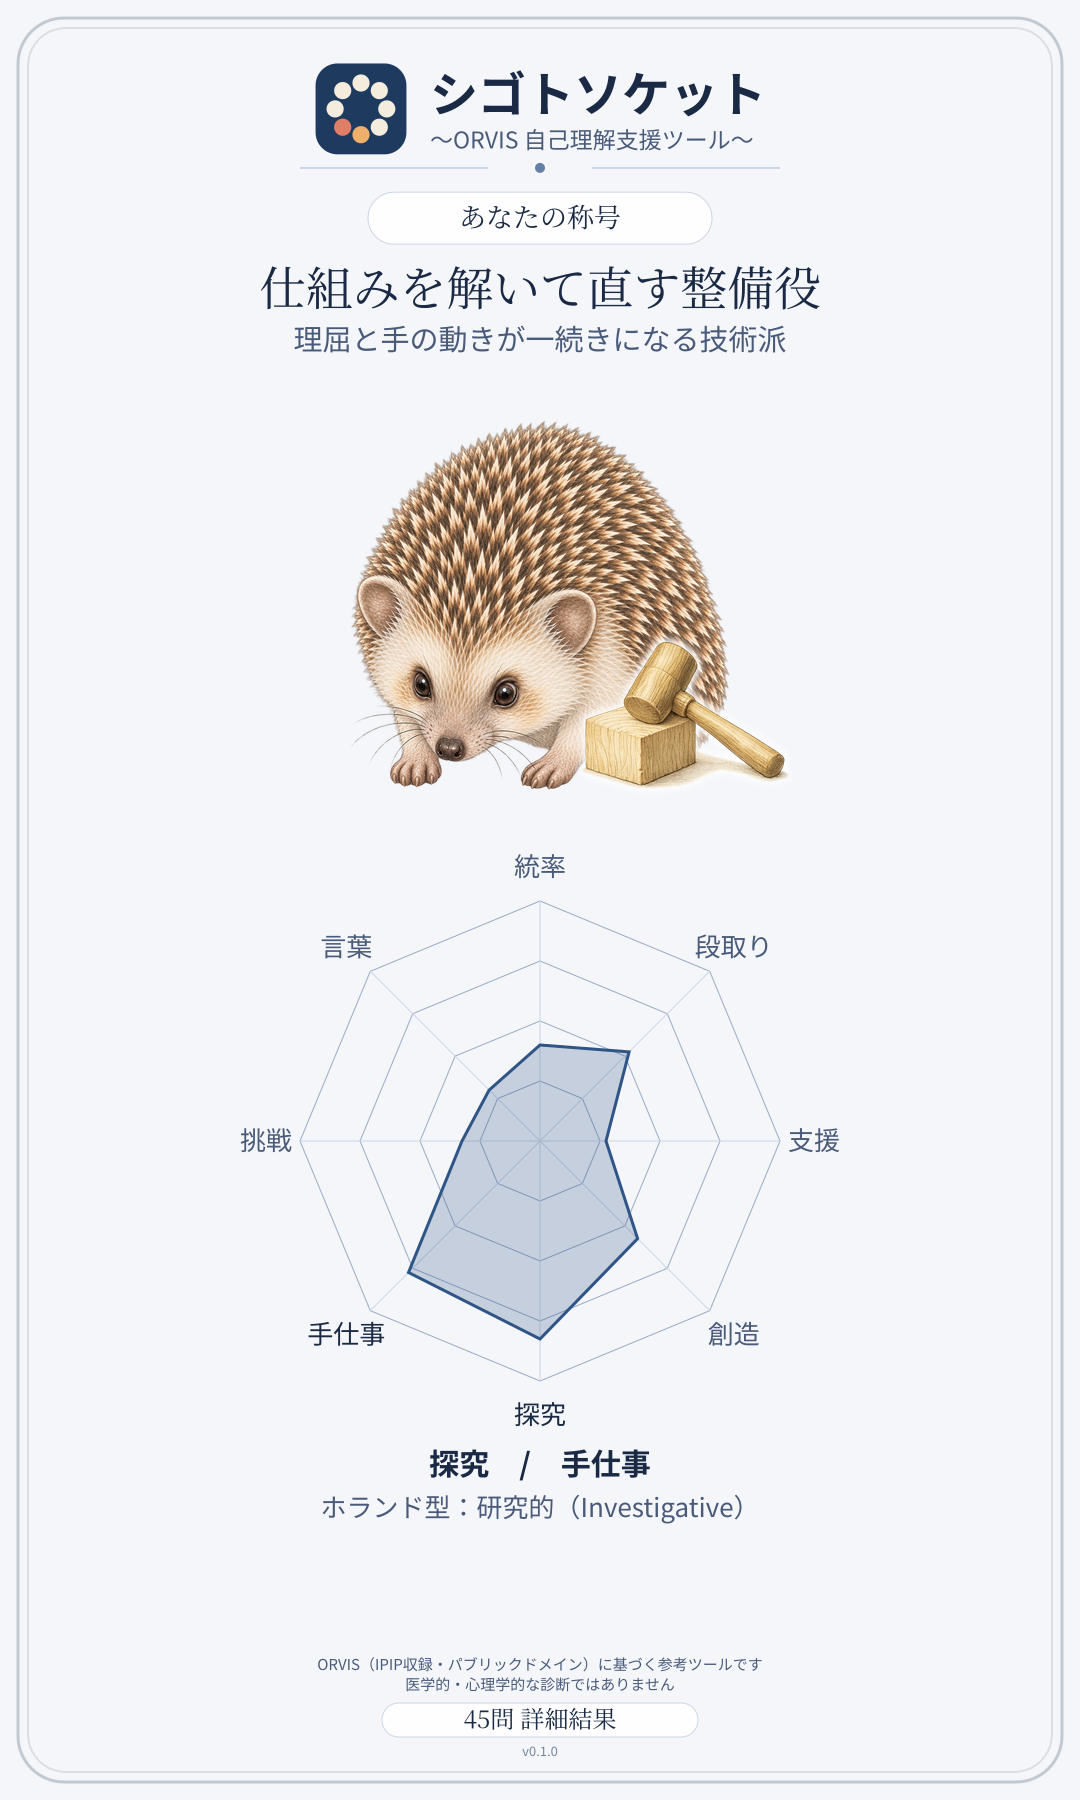
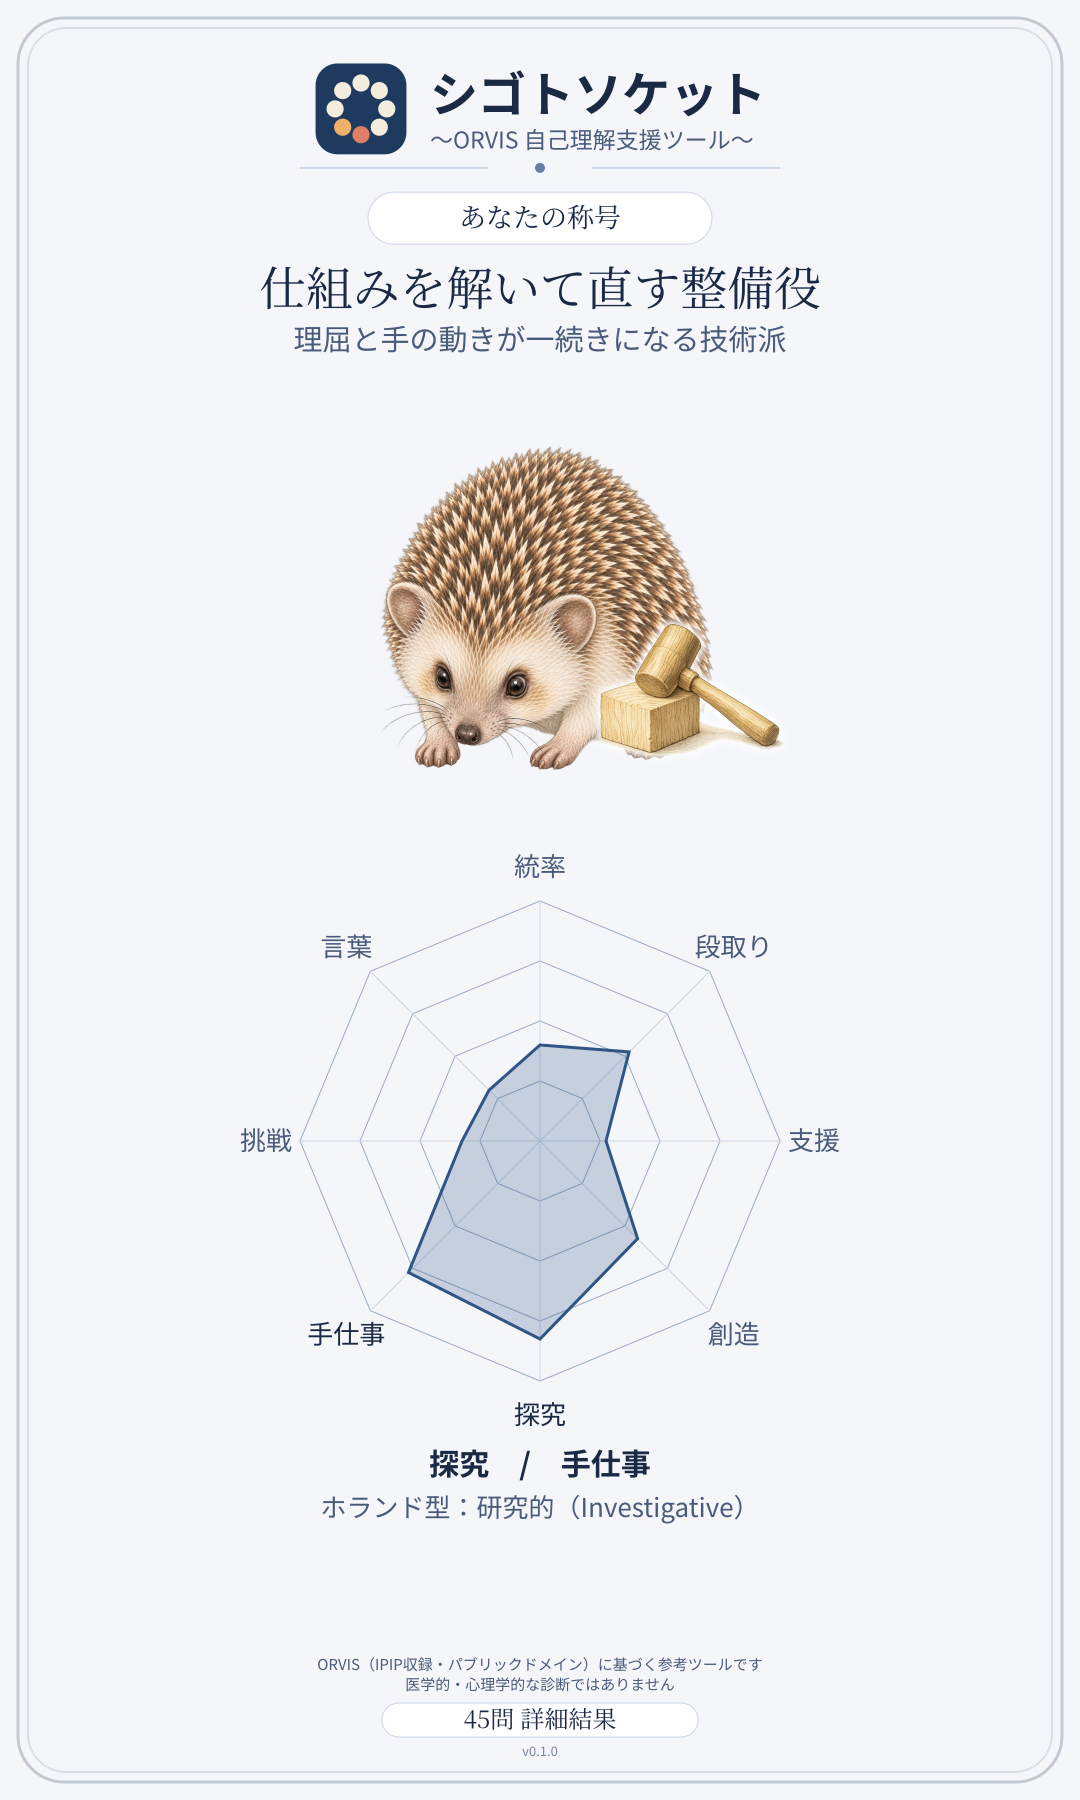
アセット: むっくん10種と小物8点を配布用webpへ変換して組み込み
- scripts/characters/build-character-assets.mjs を新設。
  **1枚ずつ余白を切らず、全種の実体を包む共通矩形で切る。**
  1枚ずつ切ると立ち姿と伏せ姿が同じ高さに正規化され、絵柄の大小差が消える
  （実測でポーズの縦横比は 0.75〜1.05）。変換後も leadership 100% /
  production 85% と差が残ることを確認した。
- sharp の適用順は extract → resize → extend。extend で正方形化すると
  リサイズ後に効いてしまうため fit:"contain" で一度に行う（一度踏んだ）。
- DEFAULT_SUBJECT_TONES を実測値へ（light #efe0cc / dark #684a34）。
  地色に対して明側1.20・暗側7.41、判定は outline のまま。
- character:check が18枚すべてで通過（1024×1024・アルファあり・四隅透明）。

Claude-Session: https://claude.ai/code/session_01UBtgMZnpSWEKNYQxHZc2bK

Changed region(s): [[0.3056, 0.2178, 0.7333, 0.4356], [0.3056, 0.0622, 0.3361, 0.0933]]

diff --git a/app/js/domain/visibility-aid.js b/app/js/domain/visibility-aid.js
@@ -98,5 +98,5 @@ export function resolveVisibilityAid(backgroundColor, subjectTones) {
   });
 }
 
-/** むっくんの代表トーン【想定】。アセット制作後に manifest の実測値で置き換える。 */
-export const DEFAULT_SUBJECT_TONES = Object.freeze({ light: "#f2ead8", dark: "#6b563c" });
+/** むっくんの代表トーン。実アセット10枚から `npm run character:tones` で実測した値（2026-09-05）。 */
+export const DEFAULT_SUBJECT_TONES = Object.freeze({ light: "#efe0cc", dark: "#684a34" });
